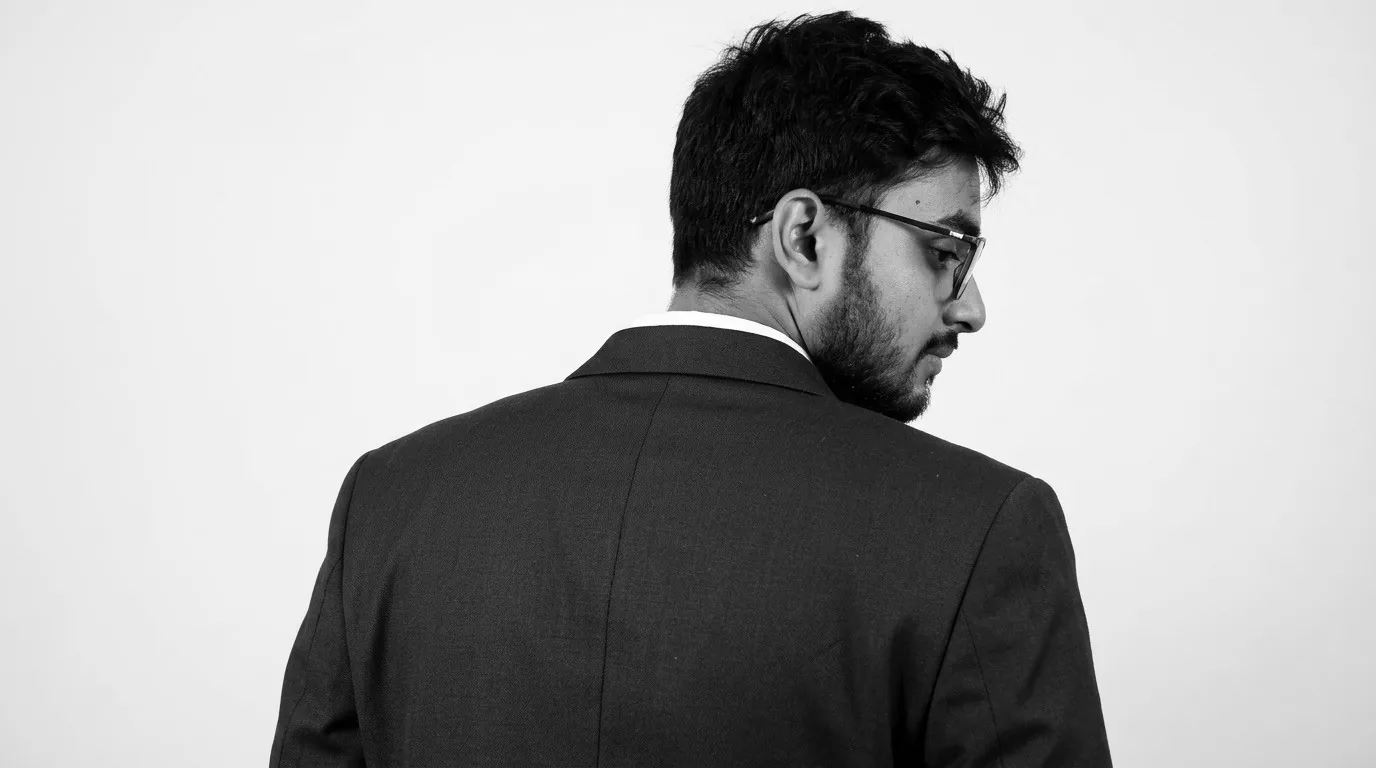
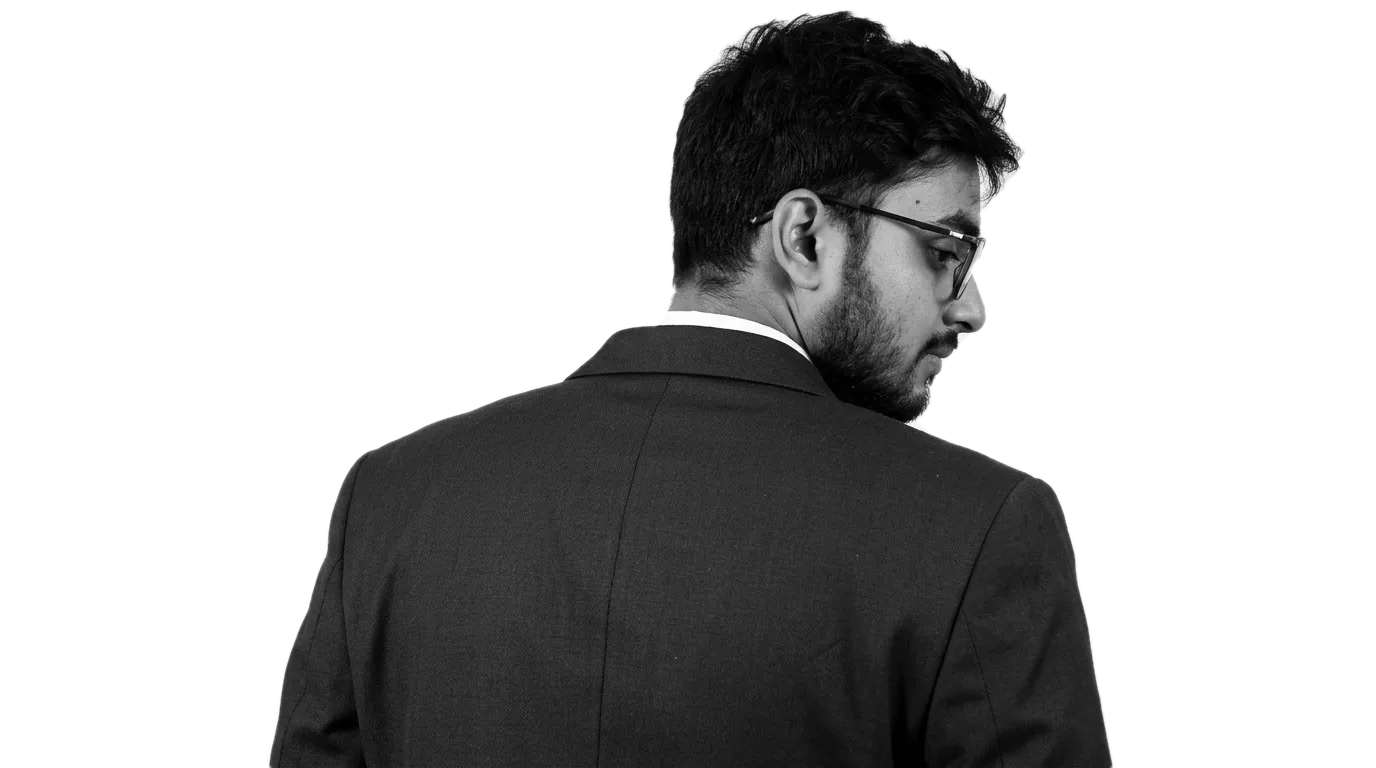
Home fixes: full neck/collar in the mosaic, uncut headings, lighter offline file
- Portrait now ships with a precomputed alpha mask (tools/make_portrait_mask.py):
  the white collar and neck stay in the mosaic, no stray edge squares
- Split-text headings restore the plain text after animating, so letters are
  no longer clipped (Intro, Get in touch, ...)
- Work: removed "Open dashboard"; NVIDIA row and Skills CTA lead to the
  Analytics Hall. Email button uses the same arrow as the other links
- Offline file 4.4 MB -> 3.0 MB: WOFF2-only fonts, surface map as WebP,
  unused serif weight dropped

Claude-Session: https://claude.ai/code/session_01NnX92SxuQEhTCXF3nNvb8W

Changed region(s): [[0.7812, 0.0, 1.0, 1.0], [0.0, 0.6562, 0.1562, 1.0], [0.0, 0.0, 0.0312, 0.0625]]

diff --git a/src/three/mosaic.js b/src/three/mosaic.js
@@ -1,10 +1,10 @@
 /**
  * Portrait → mosaic grid.
- * Samples the photo at one square per `cell` CSS pixels, keys out the
- * studio background (near-white cells flood-filled from the image edges,
- * so the enclosed white shirt collar is kept), adds a soft rim on the
- * silhouette so the dark suit reads against black, and returns typed
- * arrays ready for a THREE.Points geometry.
+ * Samples the photo at one square per `cell` CSS pixels, drops the studio
+ * background using the image's alpha mask (made once by
+ * tools/make_portrait_mask.py, which keeps the white collar and neck),
+ * adds a soft rim on the silhouette so the dark suit reads against black,
+ * and returns typed arrays ready for a THREE.Points geometry.
  */
 
 const CAM_Z = 12
@@ -47,24 +47,15 @@ export function buildMosaic(img, { vw, vh, cell, unit }) {
   const px = ctx.getImageData(0, 0, cols, rows).data
 
   const n = cols * rows
+  // the portrait carries an alpha mask (tools/make_portrait_mask.py): 0 = studio backdrop
   const lum = new Float32Array(n)
-  for (let i = 0; i < n; i++) lum[i] = (0.2126 * px[i * 4] + 0.7152 * px[i * 4 + 1] + 0.0722 * px[i * 4 + 2]) / 255
-
-  // background: flood fill near-white from every edge cell
-  const bg = new Uint8Array(n)
-  const stack = []
-  const seed = (i) => { if (!bg[i] && lum[i] > 0.78) { bg[i] = 1; stack.push(i) } }
-  for (let x = 0; x < cols; x++) { seed(x); seed((rows - 1) * cols + x) }
-  for (let y = 0; y < rows; y++) { seed(y * cols); seed(y * cols + cols - 1) }
-  while (stack.length) {
-    const i = stack.pop()
-    const x = i % cols, y = (i / cols) | 0
-    const visit = (j) => { if (!bg[j] && lum[j] > 0.72) { bg[j] = 1; stack.push(j) } }
-    if (x > 0) visit(i - 1)
-    if (x < cols - 1) visit(i + 1)
-    if (y > 0) visit(i - cols)
-    if (y < rows - 1) visit(i + cols)
+  const alpha = new Float32Array(n)
+  for (let i = 0; i < n; i++) {
+    lum[i] = (0.2126 * px[i * 4] + 0.7152 * px[i * 4 + 1] + 0.0722 * px[i * 4 + 2]) / 255
+    alpha[i] = px[i * 4 + 3] / 255
   }
+  const bg = new Uint8Array(n)
+  for (let i = 0; i < n; i++) bg[i] = alpha[i] < 0.5 ? 1 : 0
 
   // rim: distance (0, 1, 2 cells) to the background
   const rimOf = (x, y) => {
@@ -97,11 +88,8 @@ export function buildMosaic(img, { vw, vh, cell, unit }) {
         if (r() > 0.035) continue // a little dust around the figure
         b = 0.03 + r() * 0.05
       } else {
-        const rim = rimOf(x, y)
-        // edge cells half-covered by the white backdrop read too bright: treat them as a soft rim
-        const raw = rim === 1 && lum[i] > 0.55 ? 0.3 : lum[i]
-        const L = Math.min(1, Math.max(0, (raw - 0.03) / 0.8))
-        b = Math.min(1, Math.pow(L, 0.85) + rim * 0.1)
+        const L = Math.min(1, Math.max(0, (lum[i] - 0.03) / 0.8))
+        b = Math.min(1, Math.pow(L, 0.85) * Math.min(1, alpha[i] * 1.3) + rimOf(x, y) * 0.1)
       }
       const sx = x0 + (x + 0.5) * cell
       const sy = y0 + (y + 0.5) * cell

diff --git a/src/data/profile.js b/src/data/profile.js
@@ -257,13 +257,12 @@ export const home = {
       id: 'analysis', title: 'Business & Financial Analysis',
       bullets: ['Statistical analysis from a maths base', 'Reading filings, ratios, margins & growth', 'Market research and sizing', 'Question → data → insight → decision'],
       text: 'Asking the right question first, then testing what the numbers really say.',
-      cta: { label: 'Open the Analytics Hall', to: '/hall' },
     },
     {
       id: 'cases', title: 'Company Case Studies',
       bullets: ['Figures sourced from 10-Ks & results releases', 'Interactive dashboards per company', 'Methodology and sources shown with every view'],
       text: 'The Analytics Hall: one company at a time, built from primary sources. NVIDIA is live; more are in progress.',
-      cta: { label: 'Open the NVIDIA case', to: '/workspace/nvidia' },
+      cta: { label: 'Open the Analytics Hall', to: '/hall' },
     },
     {
       id: 'web', title: 'Web & Event Technology',
@@ -281,9 +280,9 @@ export const home = {
   workIntro: 'Analysis built from primary sources, and the technology projects around it.',
   // "BOLD *italic*" title + second line, per work row
   work: [
-    { id: 'nvidia', to: '/workspace/nvidia', title: 'NVIDIA *case*', sub: 'From graphics to AI', media: 'chart',
+    { id: 'nvidia', to: '/hall', title: 'NVIDIA *case*', sub: 'From graphics to AI', media: 'chart',
       text: "An interactive case study of NVIDIA's FY22–FY26 growth — revenue mix, margins, geography and customer concentration — with every figure sourced from the company's filings.",
-      links: [{ label: 'Open dashboard', to: '/workspace/nvidia' }, { label: 'Analytics Hall', to: '/hall' }] },
+      links: [{ label: 'Analytics Hall', to: '/hall' }] },
     { id: 'tedxisme', to: '/projects/tedxisme', title: 'TEDxISME', sub: 'Event platform', media: 'ticket',
       text: 'The technology behind TEDxISME: the event website, its backend, and the registration and ticketing workflows attendees use to sign up.',
       links: [{ label: 'Project details', to: '/projects/tedxisme' }] },

diff --git a/src/pages/home/Below.jsx b/src/pages/home/Below.jsx
@@ -205,7 +205,7 @@ function TicketArt() {
         <div className="ticket-main">
           <span className="mono">Admit one</span>
           <strong>TEDxISME</strong>
-          <span className="mono">Registration · Ticketing · Check-in</span>
+          <span className="mono">Registration · Ticketing</span>
         </div>
         <div className="ticket-stub">
           <div className="qr">{cells.map((on, i) => <i key={i} className={on ? 'on' : ''} />)}</div>
@@ -245,10 +245,10 @@ function MosaicArt() {
       const cell = 6
       c.width = cols * cell; c.height = rows * cell
       const g = c.getContext('2d')
-      g.fillStyle = '#060608'; g.fillRect(0, 0, c.width, c.height)
       for (let y = 0; y < rows; y++) for (let x = 0; x < cols; x++) {
-        const L = d[(y * cols + x) * 4] / 255
-        if (L > 0.8) continue
+        const k = (y * cols + x) * 4
+        if (d[k + 3] < 128) continue // backdrop (alpha mask)
+        const L = d[k] / 255
         const b = Math.pow(Math.min(1, Math.max(0, (L - 0.03) / 0.8)), 0.9)
         const v = 0.45 + 0.85 * b
         g.fillStyle = `rgb(${Math.round((18 + 190 * b) * v)},${Math.round((20 + 202 * b) * v)},${Math.round((33 + 222 * b) * v)})`
@@ -285,7 +285,7 @@ function Contact({ ref, go }) {
           <h2 id="contact-title" ref={head} className="h-giant h-giant--contact">{rich(home.contactTitle)}</h2>
           <p className="h-contact-text" data-in>{home.contactText}</p>
           <div className="h-contact-actions" data-in>
-            <Magnetic as="a" className="h-pill h-pill--solid" href={`mailto:${c.email}`} aria-label="Email Aman Kumar">Email me ✉</Magnetic>
+            <Magnetic as="a" className="h-pill h-pill--solid" href={`mailto:${c.email}`} aria-label="Email Aman Kumar">Email me ↗</Magnetic>
             {links.map(([label, href]) => (
               <a key={label} className="h-pill" href={href} target="_blank" rel="noopener noreferrer" aria-label={`Aman Kumar on ${label} (opens in a new tab)`}>{label} ↗</a>
             ))}

diff --git a/vite.config.js b/vite.config.js
@@ -7,12 +7,23 @@ import { viteSingleFile } from 'vite-plugin-singlefile'
 // `npm run build:hash`  -> HashRouter build with relative asset paths (any static host)
 // `npm run build:file`  -> ONE self-contained HTML file (dist-file/index.html) that opens by
 //                          double-click from Finder (file://). No code splitting in this mode.
+// Every supported browser reads WOFF2, so drop the WOFF fallbacks from the self-hosted
+// font CSS: they were never downloaded online, but the single-file build inlined both.
+const woff2Only = () => ({
+  name: 'woff2-only',
+  enforce: 'pre',
+  transform(code, id) {
+    if (!id.includes('@fontsource') || !id.endsWith('.css')) return null
+    return code.replace(/,\s*url\([^)]+\.woff\)\s*format\(['"]woff['"]\)/g, '')
+  },
+})
+
 export default defineConfig(({ mode }) => {
   const file = mode === 'file'
   return {
     base: mode === 'hash' || file ? './' : '/',
     define: file ? { 'import.meta.env.MODE': JSON.stringify('hash') } : {},
-    plugins: [react(), ...(file ? [viteSingleFile()] : [])],
+    plugins: [woff2Only(), react(), ...(file ? [viteSingleFile()] : [])],
     build: {
       target: 'es2020',
       chunkSizeWarningLimit: 4000,

diff --git a/src/styles/home.css b/src/styles/home.css
@@ -12,7 +12,7 @@
 .h-giant em, .h-giant em :where(span), .h-row-t1 em, .h-row-t1 em :where(span) {
   font-family: var(--f-serif); font-style: italic; font-weight: 400; letter-spacing: -0.01em; text-transform: none;
   background: linear-gradient(180deg, #eef1ff 0%, #b3bfe2 55%, #66708f 100%);
-  -webkit-background-clip: text; background-clip: text; color: transparent; padding-right: 0.05em;
+  -webkit-background-clip: text; background-clip: text; color: transparent; padding-right: 0.14em; margin-right: -0.08em;
 }
 
 /* pills & buttons */
@@ -94,7 +94,7 @@
 
 /* ---------------- sections ---------------- */
 .hm-sec { position: relative; padding: 16vh 4vw 10vh; }
-.h-giant { font: 900 clamp(4.5rem, 15vw, 15rem)/0.84 var(--f-display); letter-spacing: -0.055em; margin: 0; padding-bottom: 0.06em; }
+.h-giant { font: 900 clamp(4.5rem, 15vw, 15rem)/0.84 var(--f-display); letter-spacing: -0.055em; margin: 0; padding: 0.04em 0.06em 0.08em 0; }
 
 /* about */
 .h-about { background: linear-gradient(180deg, transparent 0, var(--bg) 18vh); }

diff --git a/src/motion/anime.js b/src/motion/anime.js
@@ -60,8 +60,10 @@ export function useSplitReveal(ref, { split = 'words', on = 'mount', delay = 0, 
     const parts = splitter[split]
     if (!parts?.length) return () => splitter.revert()
     utils.set(parts, { y: '110%' })
+    // once settled, undo the split: the clip masks would otherwise crop italic
+    // overhangs and tight letter-spacing at the edges of each word
     const play = () =>
-      animate(parts, { y: ['110%', '0%'], duration, ease: EASE_OUT, delay: stagger(step, { start: delay }) })
+      animate(parts, { y: ['110%', '0%'], duration, ease: EASE_OUT, delay: stagger(step, { start: delay }), onComplete: () => splitter.revert() })
     const stop = on === 'view' ? whenVisible(el, play) : (play(), () => {})
     return () => { stop(); splitter.revert() }
   }, deps)

diff --git a/src/three/assets.js b/src/three/assets.js
@@ -2,7 +2,7 @@ import * as THREE from 'three'
 import { GLTFLoader } from 'three/examples/jsm/loaders/GLTFLoader.js'
 import piecesUrl from '../assets/env-pieces.glb?url'
 import shardUrl from '../assets/core-shard.glb?url'
-import surfaceUrl from '../assets/surface.jpg'
+import surfaceUrl from '../assets/surface.webp'
 import { kick } from '../lib/live'
 
 /* Blender-made assets (see /blender/make_assets.py). Loaded once, shared by every world. */

diff --git a/src/main.jsx b/src/main.jsx
@@ -4,7 +4,6 @@ import App from './App'
 // self-hosted fonts (latin subsets) — no CDN needed, works offline and from file://
 import '@fontsource/inter-tight/latin-800.css'
 import '@fontsource/inter-tight/latin-900.css'
-import '@fontsource/instrument-serif/latin-400.css'
 import '@fontsource/instrument-serif/latin-400-italic.css'
 import '@fontsource/inter/latin-400.css'
 import '@fontsource/inter/latin-500.css'

diff --git a/tools/make_portrait_mask.py b/tools/make_portrait_mask.py
@@ -1,0 +1,41 @@
+"""Usage: python3 tools/make_portrait_mask.py public/images/aman-portrait.jpg src/assets/aman-portrait.webp [threshold=0.84] [close_radius=12] [preview]
+(the committed asset was made with threshold 0.76, radius 12)
+
+Build aman-portrait.webp with an alpha mask: white studio backdrop -> transparent.
+flood-fill near-white from the image border, close narrow gaps (shirt collar), fill holes, feather."""
+import sys
+import numpy as np
+from PIL import Image, ImageFilter
+from scipy import ndimage as ndi
+
+src, out = sys.argv[1], sys.argv[2]
+g = Image.open(src).convert('L')
+a = np.asarray(g, dtype=np.float32) / 255.0
+H, W = a.shape
+
+bright = a > float(sys.argv[3]) if len(sys.argv) > 3 else a > 0.84
+lab, n = ndi.label(bright)
+border = set(np.unique(np.concatenate([lab[0], lab[-1], lab[:, 0], lab[:, -1]]))) - {0}
+bg = np.isin(lab, list(border))
+subject = ~bg
+r = int(sys.argv[4]) if len(sys.argv) > 4 else 12
+st = ndi.generate_binary_structure(2, 1)
+pad = r + 4
+padded = np.pad(subject, pad, mode='edge')  # replicate edges: no border artefacts
+padded = ndi.binary_closing(padded, structure=st, iterations=r)
+subject = padded[pad:-pad, pad:-pad]
+# fill only small enclosed pockets (real backdrop gaps, e.g. under the chin, stay open)
+holes = ndi.binary_fill_holes(subject) & ~subject
+hl, hn = ndi.label(holes)
+if hn:
+    sizes = ndi.sum(holes, hl, range(1, hn + 1))
+    small = np.isin(hl, [i + 1 for i, sz in enumerate(sizes) if sz < 400])
+    subject = subject | small
+subject = ndi.binary_opening(subject, structure=st, iterations=2)  # drop specks
+alpha = Image.fromarray((subject * 255).astype(np.uint8)).filter(ImageFilter.GaussianBlur(1.2))
+rgba = Image.merge('RGBA', [g, g, g, alpha])
+rgba.save(out, 'WEBP', quality=82, method=6, exact=False)
+if len(sys.argv) > 5:
+    prev = Image.new('RGB', (W, H), (40, 0, 60)); prev.paste(g.convert('RGB'), mask=alpha)
+    prev.save(out.replace('.webp', '-preview.png'))
+print(W, H, subject.mean())

diff --git a/README.md b/README.md
@@ -84,7 +84,7 @@ Type: Inter Tight (display), Instrument Serif italic (accents), Inter (body), Je
   re-created. Home (the portrait mosaic, `HeroWorld.jsx` + `mosaic.js`), Hall and Workspace are separate "worlds" in the same scene;
   inactive worlds are hidden, and the Hall/Workspace worlds are lazy-mounted on first visit then kept.
 - **Shared light rig**: lights are never added/removed on route change (avoids shader recompiles); worlds only retarget them.
-- **Portrait mosaic**: one `THREE.Points` draw call (one square per grid cell, sampled from `src/assets/aman-portrait.webp`; the white backdrop is flood-filled out). Fewer, larger squares on phones; the canvas stops rendering once the hero is scrolled away.
+- **Portrait mosaic**: one `THREE.Points` draw call (one square per grid cell, sampled from `src/assets/aman-portrait.webp`; the white backdrop is removed by the image's alpha mask). Fewer, larger squares on phones; the canvas stops rendering once the hero is scrolled away.
 - **Instancing**: Hall pillars and the instrument arc use `InstancedMesh`.
 - **Demand-based rendering**: `frameloop="demand"`; full rate only while scrolling / pointer moves / transitions,
   a 30 fps ambient rate on the home hero and in the Hall, and **zero** frames while reading a dashboard. Paused in hidden tabs.
@@ -110,7 +110,8 @@ Type: Inter Tight (display), Instrument Serif italic (accents), Inter (body), Je
 |---|---|
 | `env-pieces.glb` | 4 bevelled architectural pieces (clean, chipped, stepped, split) — boolean cuts, 4-segment bevels, weighted normals |
 | `core-shard.glb` | crystalline shard (used by the v1 story; kept for reuse) |
-| `surface.jpg` | 2048² **seamless** surface map baked in Cycles (R height · G roughness · B tone): layered 4D noise + Voronoi fracture seams |
+| `surface.webp` | **seamless** surface map baked in Cycles (R height · G roughness · B tone): layered 4D noise + Voronoi fracture seams. Baked at 2048², shipped as a 1024² WebP (~190 KB) |
+| `aman-portrait.webp` | the hero portrait with an alpha mask (backdrop removed, collar/neck kept) — rebuild with `python3 tools/make_portrait_mask.py public/images/aman-portrait.jpg src/assets/aman-portrait.webp 0.76 12` |
 
 The surface is applied with **triplanar mapping** (`src/three/assets.js → applySurface`) using each piece's real scaled size,
 so detail never stretches on scaled pieces. It drives bump, roughness and tone on the Hall pillars.
